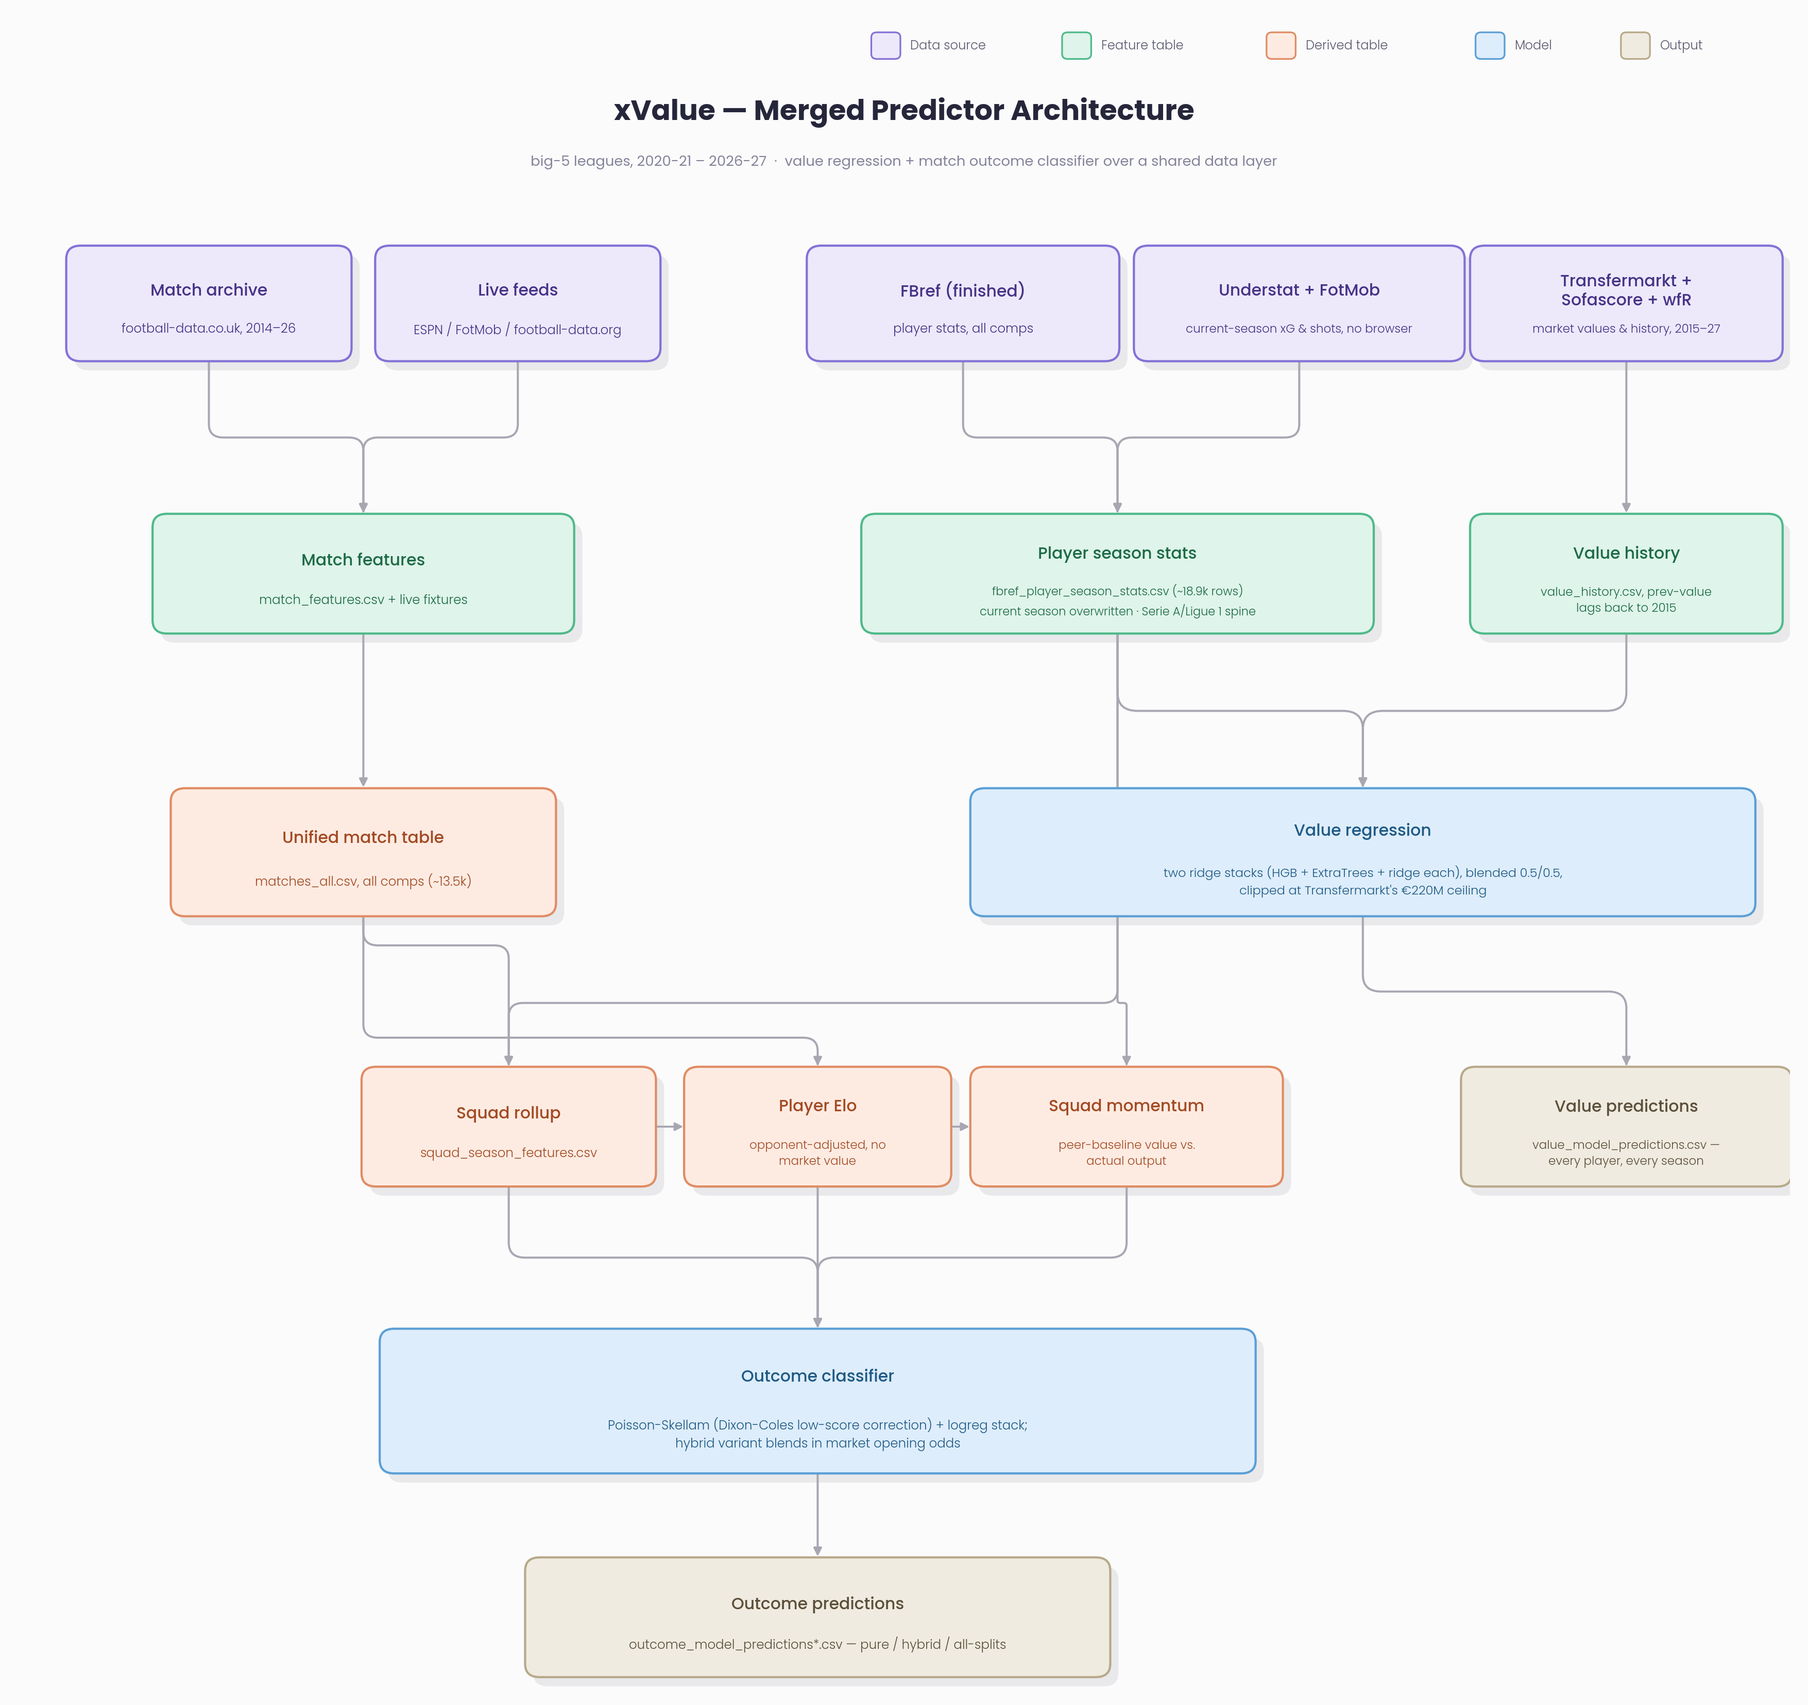
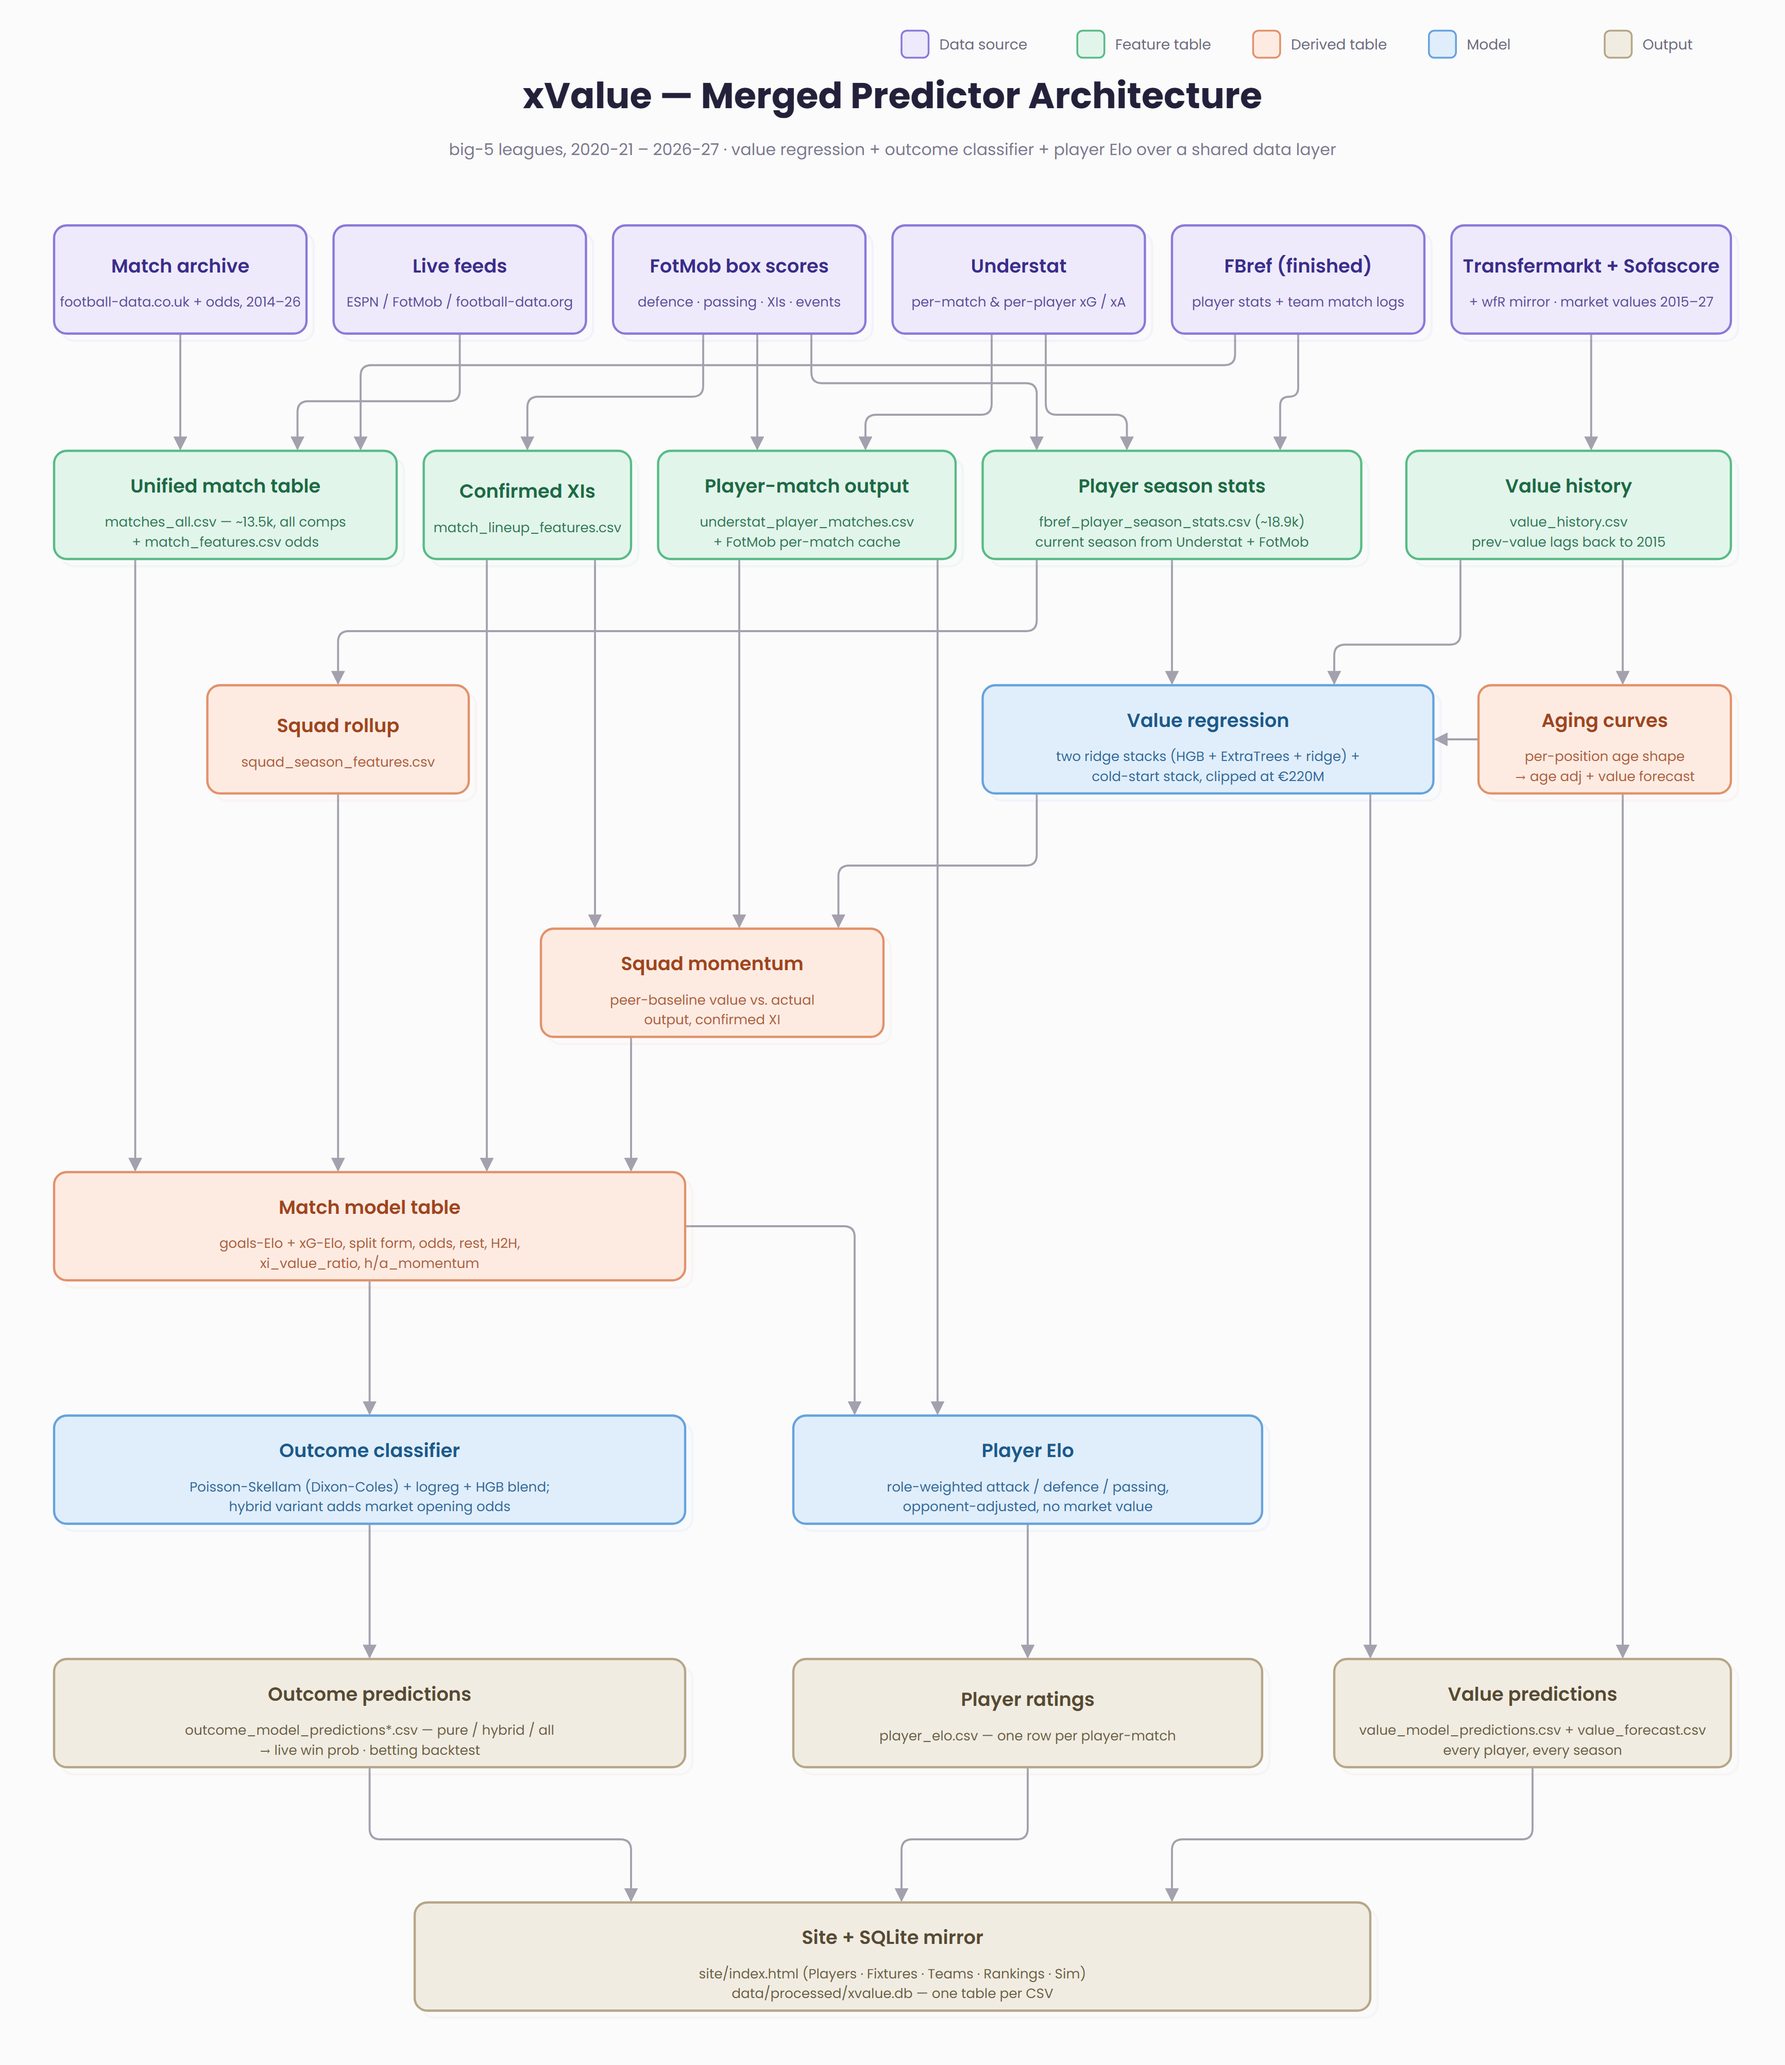
Redraw architecture diagram with player Elo and embed it in README

diff --git a/README.md b/README.md
@@ -13,6 +13,12 @@ Spain, Germany, Italy, France, 2020-21 → 2026-27** (+ the cups those clubs pla
   on Elo + form + xG, log-loss **0.981** (pure) / **0.972** (with market odds),
   vs Bet365 closing 0.971 — at the market ceiling.
 
+Alongside them, a **player Elo** (no market value anywhere in it) rates every
+player match by match on a role-weighted blend of attacking output, defensive
+actions and passing, against an opponent-adjusted expectation.
+
+![Merged predictor architecture](merged_predictor_architecture.png)
+
 `docs/models.md` has the full model detail; `run_pipeline.md` is the runbook.
 
 ## Data sources
@@ -22,7 +28,7 @@ Spain, Germany, Italy, France, 2020-21 → 2026-27** (+ the cups those clubs pla
 | football-data.co.uk | league results + bookmaker odds, 2014-26 (all big-5) | `pull_match_archive.py` |
 | FBref (nodriver) | finished-season player stats (PL/BL/La Liga) + the deep columns nothing live carries, all-comps team match logs | `pull_fbref_*.py` |
 | Understat (soccerdata) | per-match + per-player xG, 2020-now; the current-season goals/assists/minutes/xG and the Serie A / Ligue 1 player spine | `pull_understat*.py` |
-| FotMob | current-season SoT / fouls / tackles / interceptions / blocks / clearances / touches / saves (per-match box scores) | `pull_fotmob_players.py` |
+| FotMob | per-match box scores: SoT / fouls / tackles / interceptions / blocks / clearances / touches / saves / passes completed + attempted; confirmed XIs + goal/red-card timelines | `pull_fotmob_players.py` |
 | Transfermarkt (mirror + nodriver) + Sofascore | market values, 2020-27 | `pull_transfermarkt*.py`, `pull_sofascore_values.py` |
 | worldfootballR mirror | advanced player stats (xAG, progressive, tackles…), 2020-22 | `pull_wfr_advanced.py` |
 | ESPN / FotMob / football-data.org | current-season fixtures/results + cup stats & xG | `pull_live.py`, `src/live/` |
@@ -45,7 +51,7 @@ going dark is swapped without touching anything downstream.
 | 9 | Value model | `train_value_model.py` | `models/value_model.pkl`, `value_model_predictions.csv` |
 | 10 | Form / momentum | `build_form_momentum.py` (peer-baseline value vs. actual output) → re-run `build_match_model_table.py` | `squad_momentum.csv` |
 | 11 | Outcome model | `build_match_model_table.py` → `train_outcome_model.py [--hybrid]` | `outcome_model_predictions*.csv` |
-| 12 | Player Elo | `build_player_elo.py` (opponent-adjusted, no market value) | `player_elo.csv` |
+| 12 | Player Elo | `build_player_elo.py` (opponent-adjusted, no market value; role-weighted attack / defence / passing from Understat + FotMob) | `player_elo.csv` |
 | 13 | Site | `export_site_data.py` | `site/index.html` |
 | 14 | SQLite mirror | `build_sqlite_db.py` (one table per CSV, fully replaced each run) | `data/processed/xvalue.db` |
 
